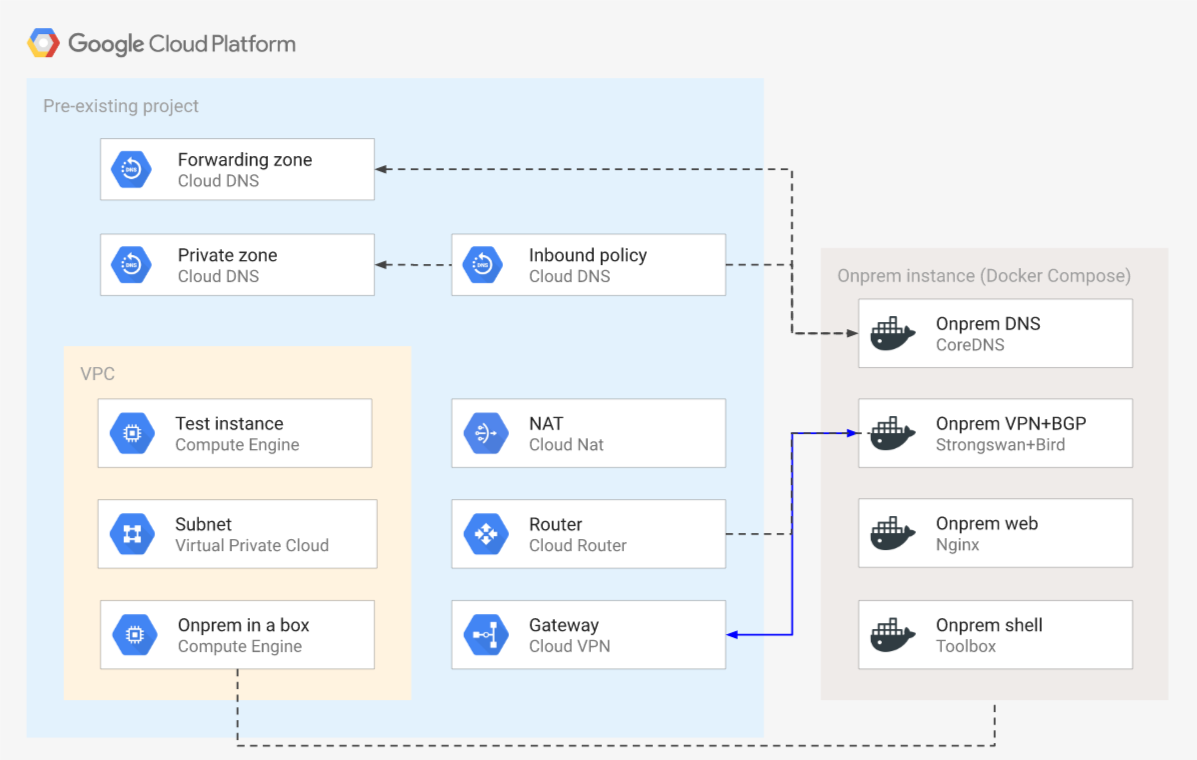
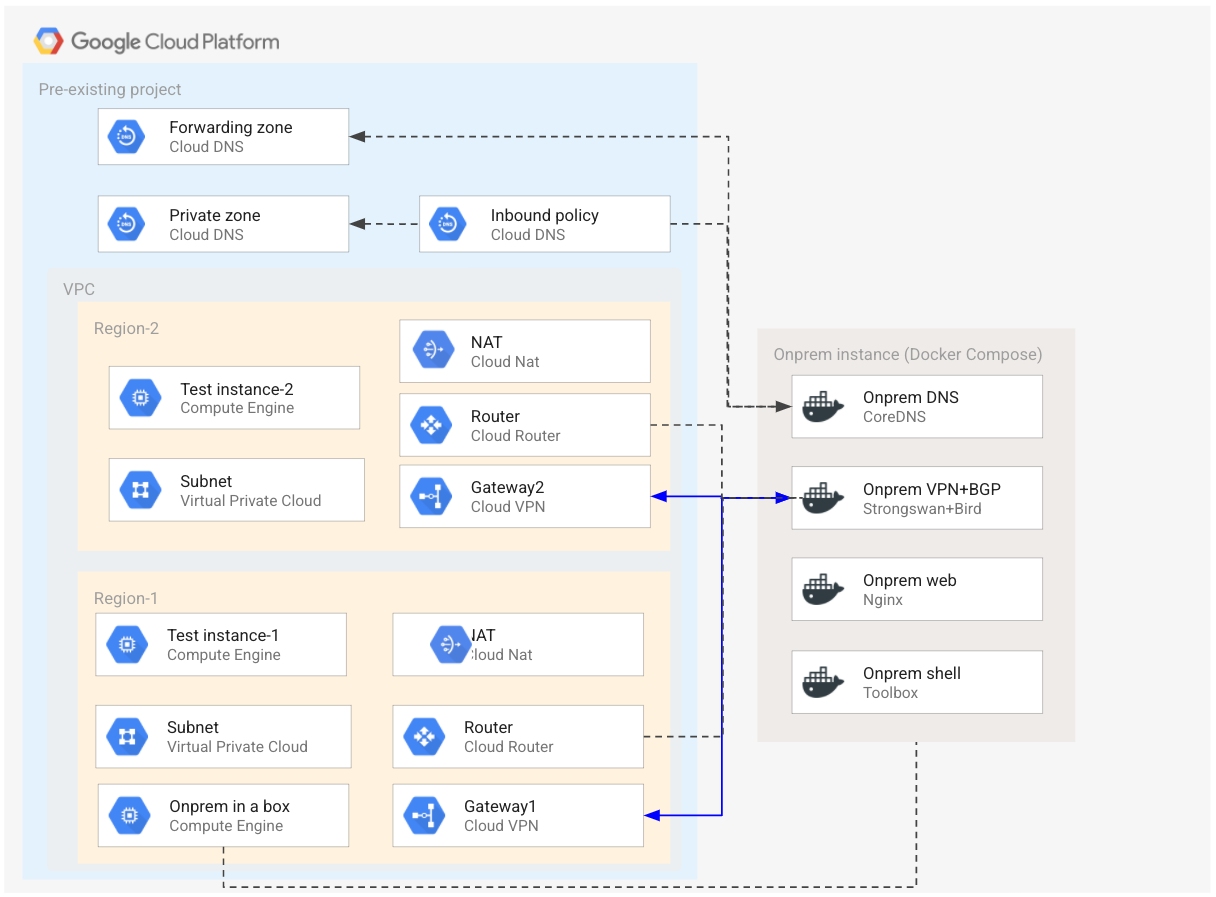
Adjusting second region for on-prem-in-a-box for testing more use cases

diff --git a/networking/onprem-google-access-dns/README.md b/networking/onprem-google-access-dns/README.md
@@ -14,13 +14,13 @@ The example has been purposefully kept simple to show how to use and wire the on
 
 This sample creates several distinct groups of resources:
 
-- one VPC
+- one VPC with two regions
 - one set of firewall rules
-- one Cloud NAT configuration
-- one test instance
-- one service account for the test instance
+- one Cloud NAT configuration per region
+- one test instance on each region
+- one service account for the test instances
 - one service account for the onprem instance
-- one dynamic VPN gateway with a single tunnel
+- two dynamic VPN gateways in each of the regions with a single tunnel
 - two DNS zones (private and forwarding) and a DNS inbound policy
 - one emulated on-premises environment in a single GCP instance
 
@@ -88,28 +88,84 @@ google.internal {
 ### Onprem to cloud
 
 ```bash
+# check containers are running
+sudo docker ps
+
 # connect to the onprem instance
 gcloud compute ssh onprem-1
 
-# check that the BGP session works and the advertised routes are set
-sudo docker exec -it onprem_bird_1 ip route |grep bird
-10.0.0.0/24 via 169.254.1.1 dev vti0  proto bird  src 10.0.16.2
-35.199.192.0/19 via 169.254.1.1 dev vti0  proto bird  src 10.0.16.2
-199.36.153.4/30 via 169.254.1.1 dev vti0  proto bird  src 10.0.16.2
-199.36.153.8/30 via 169.254.1.1 dev vti0  proto bird  src 10.0.16.2
+# check that the VPN tunnels are up
+sudo docker exec -it onprem_vpn_1 ipsec statusall
+
+Status of IKE charon daemon (strongSwan 5.8.1, Linux 5.4.0-1029-gcp, x86_64):
+  uptime: 6 minutes, since Nov 30 08:42:08 2020
+  worker threads: 11 of 16 idle, 5/0/0/0 working, job queue: 0/0/0/0, scheduled: 8
+  loaded plugins: charon aesni mgf1 random nonce x509 revocation constraints pubkey pkcs1 pkcs7 pkcs8 pkcs12 pgp dnskey sshkey pem openssl fips-prf gmp curve25519 xcbc cmac curl sqlite attr kernel-netlink resolve socket-default farp stroke vici updown eap-identity eap-sim eap-aka eap-aka-3gpp2 eap-simaka-pseudonym eap-simaka-reauth eap-md5 eap-mschapv2 eap-radius eap-tls xauth-generic xauth-eap dhcp unity counters
+Listening IP addresses:
+  10.0.16.2
+  169.254.1.2
+  169.254.2.2
+Connections:
+         gcp:  %any...35.233.104.67,0.0.0.0/0,::/0  IKEv2, dpddelay=30s
+         gcp:   local:  uses pre-shared key authentication
+         gcp:   remote: [35.233.104.67] uses pre-shared key authentication
+         gcp:   child:  0.0.0.0/0 === 0.0.0.0/0 TUNNEL, dpdaction=restart
+        gcp2:  %any...35.246.101.51,0.0.0.0/0,::/0  IKEv2, dpddelay=30s
+        gcp2:   local:  uses pre-shared key authentication
+        gcp2:   remote: [35.246.101.51] uses pre-shared key authentication
+        gcp2:   child:  0.0.0.0/0 === 0.0.0.0/0 TUNNEL, dpdaction=restart
+Security Associations (2 up, 0 connecting):
+        gcp2[4]: ESTABLISHED 6 minutes ago, 10.0.16.2[34.76.57.103]...35.246.101.51[35.246.101.51]
+        gcp2[4]: IKEv2 SPIs: 227cb2c52085a743_i 13b18b0ad5d4de2b_r*, pre-shared key reauthentication in 9 hours
+        gcp2[4]: IKE proposal: AES_GCM_16_256/PRF_HMAC_SHA2_512/MODP_2048
+        gcp2{4}:  INSTALLED, TUNNEL, reqid 2, ESP in UDP SPIs: cb6fdb84_i eea28dee_o
+        gcp2{4}:  AES_GCM_16_256, 3298 bytes_i, 3051 bytes_o (48 pkts, 3s ago), rekeying in 2 hours
+        gcp2{4}:   0.0.0.0/0 === 0.0.0.0/0
+         gcp[3]: ESTABLISHED 6 minutes ago, 10.0.16.2[34.76.57.103]...35.233.104.67[35.233.104.67]
+         gcp[3]: IKEv2 SPIs: e2cffed5395b63dd_i 99f343468625507c_r*, pre-shared key reauthentication in 9 hours
+         gcp[3]: IKE proposal: AES_GCM_16_256/PRF_HMAC_SHA2_512/MODP_2048
+         gcp{3}:  INSTALLED, TUNNEL, reqid 1, ESP in UDP SPIs: c3f09701_i 4e8cc8d5_o
+         gcp{3}:  AES_GCM_16_256, 3438 bytes_i, 3135 bytes_o (49 pkts, 8s ago), rekeying in 2 hours
+         gcp{3}:   0.0.0.0/0 === 0.0.0.0/0
+
+# check that the BGP sessions works and the advertised routes are set
+sudo docker exec -it onprem_bird_1 ip route 
+default via 10.0.16.1 dev eth0 
+10.0.0.0/24  proto bird  src 10.0.16.2 
+        nexthop via 169.254.1.1  dev vti0 weight 1
+        nexthop via 169.254.2.1  dev vti1 weight 1
+10.0.16.0/24 dev eth0  proto kernel  scope link  src 10.0.16.2 
+10.10.0.0/24  proto bird  src 10.0.16.2 
+        nexthop via 169.254.1.1  dev vti0 weight 1
+        nexthop via 169.254.2.1  dev vti1 weight 1
[phone redacted].0/19  proto bird  src 10.0.16.2 
+        nexthop via 169.254.1.1  dev vti0 weight 1
+        nexthop via 169.254.2.1  dev vti1 weight 1
+169.254.1.0/30 dev vti0  proto kernel  scope link  src 169.254.1.2 
+169.254.2.0/30 dev vti1  proto kernel  scope link  src 169.254.2.2 
[phone redacted].4/30  proto bird  src 10.0.16.2 
+        nexthop via 169.254.1.1  dev vti0 weight 1
+        nexthop via 169.254.2.1  dev vti1 weight 1
[phone redacted].8/30  proto bird  src 10.0.16.2 
+        nexthop via 169.254.1.1  dev vti0 weight 1
+        nexthop via 169.254.2.1  dev vti1 weight 1
+
 
 # get a shell on the toolbox container
 sudo docker exec -it onprem_toolbox_1 sh
 
-# test pinging the IP address of the test instance (check outputs for it)
+# test pinging the IP address of the test instances (check outputs for it)
 ping 10.0.0.3
+ping 10.10.0.3
 
 # note: if you are able to ping the IP but the DNS tests below do not work,
 #       refer to the sections above on configuring the DNS inbound fwd IP
 
 # test forwarding from CoreDNS via the Cloud DNS inbound policy
-dig test-1.gcp.example.org +short
+dig test-1-1.gcp.example.org +short
 10.0.0.3
+dig test-2-1.gcp.example.org +short
+10.10.0.3
 
 # test that Private Access is configured correctly
 dig compute.googleapis.com +short
@@ -143,7 +199,7 @@ curl www.onprem.example.org -s |grep h1
 
 A single pre-existing project is used in this example to keep variables and complexity to a minimum, in a real world scenarios each spoke would probably use a separate project.
 
-The VPN used to connect to the on-premises environment does not account for HA, upgrading to use HA VPN is reasonably simple by using the relevant [module](../../modules/net-vpn-ha).
+The VPN-s used to connect to the on-premises environment do not account for HA, upgrading to use HA VPN is reasonably simple by using the relevant [module](../../modules/net-vpn-ha).
 
 <!-- BEGIN TFDOC -->
 ## Variables
@@ -151,12 +207,12 @@ The VPN used to connect to the on-premises environment does not account for HA, 
 | name | description | type | required | default |
 |---|---|:---: |:---:|:---:|
 | project_id | Project id for all resources. | <code title="">string</code> | ✓ |  |
-| *bgp_asn* | BGP ASNs. | <code title="map&#40;number&#41;">map(number)</code> |  | <code title="&#123;&#10;gcp    &#61; 64513&#10;onprem &#61; 64514&#10;&#125;">...</code> |
-| *bgp_interface_ranges* | BGP interface IP CIDR ranges. | <code title="map&#40;string&#41;">map(string)</code> |  | <code title="&#123;&#10;gcp &#61; &#34;169.254.1.0&#47;30&#34;&#10;&#125;">...</code> |
+| *bgp_asn* | BGP ASNs. | <code title="map&#40;number&#41;">map(number)</code> |  | <code title="&#123;&#10;gcp1    &#61; 64513&#10;gcp2    &#61; 64520&#10;onprem1 &#61; 64514&#10;onprem2 &#61; 64514&#10;&#125;">...</code> |
+| *bgp_interface_ranges* | BGP interface IP CIDR ranges. | <code title="map&#40;string&#41;">map(string)</code> |  | <code title="&#123;&#10;gcp1 &#61; &#34;169.254.1.0&#47;30&#34;&#10;gcp2 &#61; &#34;169.254.2.0&#47;30&#34;&#10;&#125;">...</code> |
 | *dns_forwarder_address* | Address of the DNS server used to forward queries from on-premises. | <code title="">string</code> |  | <code title="">10.0.0.2</code> |
 | *forwarder_address* | GCP DNS inbound policy forwarder address. | <code title="">string</code> |  | <code title="">10.0.0.2</code> |
-| *ip_ranges* | IP CIDR ranges. | <code title="map&#40;string&#41;">map(string)</code> |  | <code title="&#123;&#10;gcp    &#61; &#34;10.0.0.0&#47;24&#34;&#10;onprem &#61; &#34;10.0.16.0&#47;24&#34;&#10;&#125;">...</code> |
-| *region* | VPC region. | <code title="">string</code> |  | <code title="">europe-west1</code> |
+| *ip_ranges* | IP CIDR ranges. | <code title="map&#40;string&#41;">map(string)</code> |  | <code title="&#123;&#10;gcp1   &#61; &#34;10.0.0.0&#47;24&#34;&#10;gcp2   &#61; &#34;10.10.0.0&#47;24&#34;&#10;onprem &#61; &#34;10.0.16.0&#47;24&#34;&#10;&#125;">...</code> |
+| *region* | VPC region. | <code title="map&#40;string&#41;">map(string)</code> |  | <code title="&#123;&#10;gcp1 &#61; &#34;europe-west1&#34;&#10;gcp2 &#61; &#34;europe-west2&#34;&#10;&#125;">...</code> |
 | *ssh_source_ranges* | IP CIDR ranges that will be allowed to connect via SSH to the onprem instance. | <code title="list&#40;string&#41;">list(string)</code> |  | <code title="">["0.0.0.0/0"]</code> |
 
 ## Outputs
@@ -164,5 +220,6 @@ The VPN used to connect to the on-premises environment does not account for HA, 
 | name | description | sensitive |
 |---|---|:---:|
 | onprem-instance | Onprem instance details. |  |
-| test-instance | Test instance details. |  |
+| test-instance1 | Test instance details. |  |
+| test-instance2 | Test instance details. |  |
 <!-- END TFDOC -->

diff --git a/modules/cloud-config-container/onprem/README.md b/modules/cloud-config-container/onprem/README.md
@@ -64,13 +64,13 @@ module "on-prem" {
 
 | name | description | type | required | default |
 |---|---|:---: |:---:|:---:|
-| vpn_config | VPN configuration, type must be one of 'dynamic' or 'static'. | <code title="object&#40;&#123;&#10;peer_ip       &#61; string&#10;shared_secret &#61; string&#10;type &#61; string&#10;&#125;&#41;">object({...})</code> | ✓ |  |
+| vpn_config | VPN configuration, type must be one of 'dynamic' or 'static'. | <code title="object&#40;&#123;&#10;peer_ip        &#61; string&#10;shared_secret  &#61; string&#10;type &#61; string&#10;peer_ip2       &#61; string&#10;shared_secret2 &#61; string&#10;&#125;&#41;">object({...})</code> | ✓ |  |
 | *config_variables* | Additional variables used to render the cloud-config and CoreDNS templates. | <code title="map&#40;any&#41;">map(any)</code> |  | <code title="">{}</code> |
 | *coredns_config* | CoreDNS configuration path, if null default will be used. | <code title="">string</code> |  | <code title="">null</code> |
 | *local_ip_cidr_range* | IP CIDR range used for the Docker onprem network. | <code title="">string</code> |  | <code title="">192.168.192.0/24</code> |
 | *test_instance* | Test/development instance attributes, leave null to skip creation. | <code title="object&#40;&#123;&#10;project_id &#61; string&#10;zone       &#61; string&#10;name       &#61; string&#10;type &#61; string&#10;network    &#61; string&#10;subnetwork &#61; string&#10;&#125;&#41;">object({...})</code> |  | <code title="">null</code> |
 | *test_instance_defaults* | Test/development instance defaults used for optional configuration. If image is null, COS stable will be used. | <code title="object&#40;&#123;&#10;disks &#61; map&#40;object&#40;&#123;&#10;read_only &#61; bool&#10;size      &#61; number&#10;&#125;&#41;&#41;&#10;image                 &#61; string&#10;metadata              &#61; map&#40;string&#41;&#10;nat                   &#61; bool&#10;service_account_roles &#61; list&#40;string&#41;&#10;tags                  &#61; list&#40;string&#41;&#10;&#125;&#41;">object({...})</code> |  | <code title="&#123;&#10;disks    &#61; &#123;&#125;&#10;image    &#61; null&#10;metadata &#61; &#123;&#125;&#10;nat      &#61; false&#10;service_account_roles &#61; &#91;&#10;&#34;roles&#47;logging.logWriter&#34;,&#10;&#34;roles&#47;monitoring.metricWriter&#34;&#10;&#93;&#10;tags &#61; &#91;&#34;ssh&#34;&#93;&#10;&#125;">...</code> |
-| *vpn_dynamic_config* | BGP configuration for dynamic VPN, ignored if VPN type is 'static'. | <code title="object&#40;&#123;&#10;local_bgp_asn     &#61; number&#10;local_bgp_address &#61; string&#10;peer_bgp_asn      &#61; number&#10;peer_bgp_address  &#61; string&#10;&#125;&#41;">object({...})</code> |  | <code title="&#123;&#10;local_bgp_asn     &#61; 65002&#10;local_bgp_address &#61; &#34;169.254.0.2&#34;&#10;peer_bgp_asn      &#61; 65001&#10;peer_bgp_address  &#61; &#34;169.254.0.1&#34;&#10;&#125;">...</code> |
+| *vpn_dynamic_config* | BGP configuration for dynamic VPN, ignored if VPN type is 'static'. | <code title="object&#40;&#123;&#10;local_bgp_asn      &#61; number&#10;local_bgp_address  &#61; string&#10;peer_bgp_asn       &#61; number&#10;peer_bgp_address   &#61; string&#10;local_bgp_asn2     &#61; number&#10;local_bgp_address2 &#61; string&#10;peer_bgp_asn2      &#61; number&#10;peer_bgp_address2  &#61; string&#10;&#125;&#41;">object({...})</code> |  | <code title="&#123;&#10;local_bgp_asn      &#61; 64514&#10;local_bgp_address  &#61; &#34;169.254.1.2&#34;&#10;peer_bgp_asn       &#61; 64513&#10;peer_bgp_address   &#61; &#34;169.254.1.1&#34;&#10;local_bgp_asn2     &#61; 64514&#10;local_bgp_address2 &#61; &#34;169.254.2.2&#34;&#10;peer_bgp_asn2      &#61; 64520&#10;peer_bgp_address2  &#61; &#34;169.254.2.1&#34;&#10;&#125;">...</code> |
 | *vpn_static_ranges* | Remote CIDR ranges for static VPN, ignored if VPN type is 'dynamic'. | <code title="list&#40;string&#41;">list(string)</code> |  | <code title="">["10.0.0.0/8"]</code> |
 
 ## Outputs